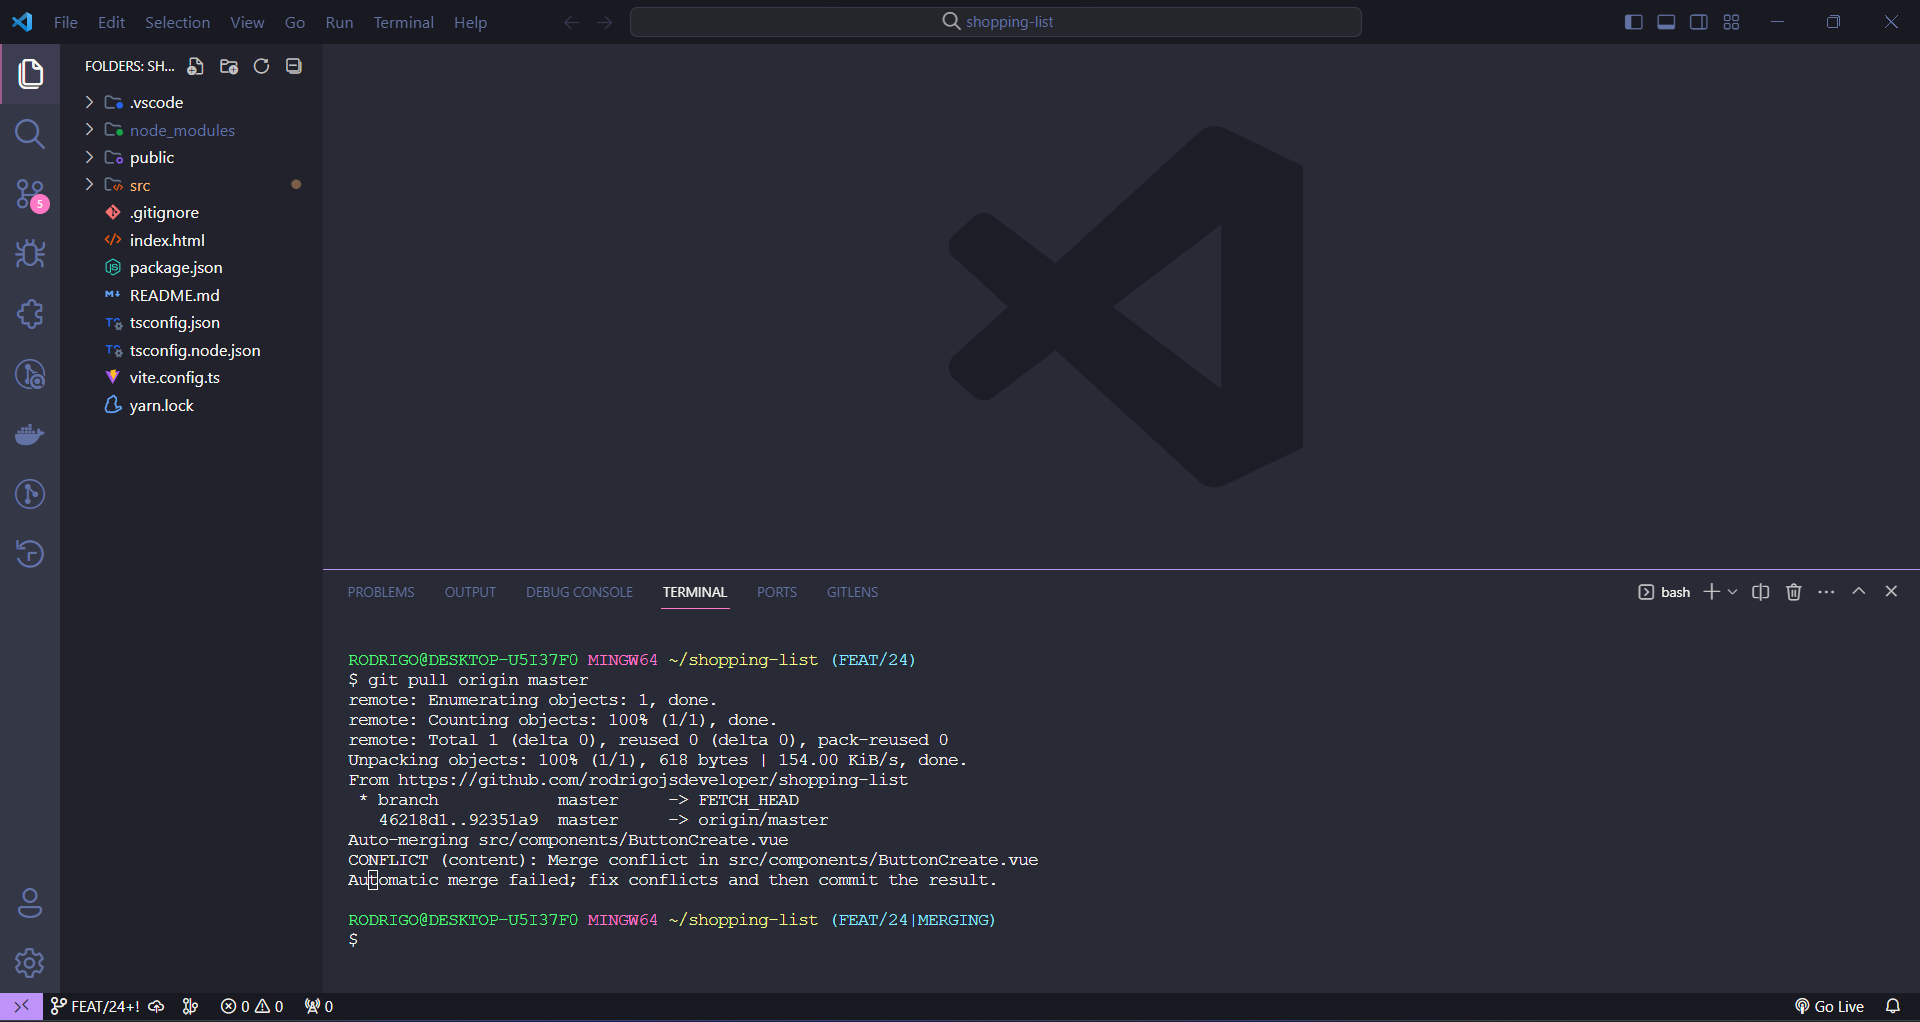
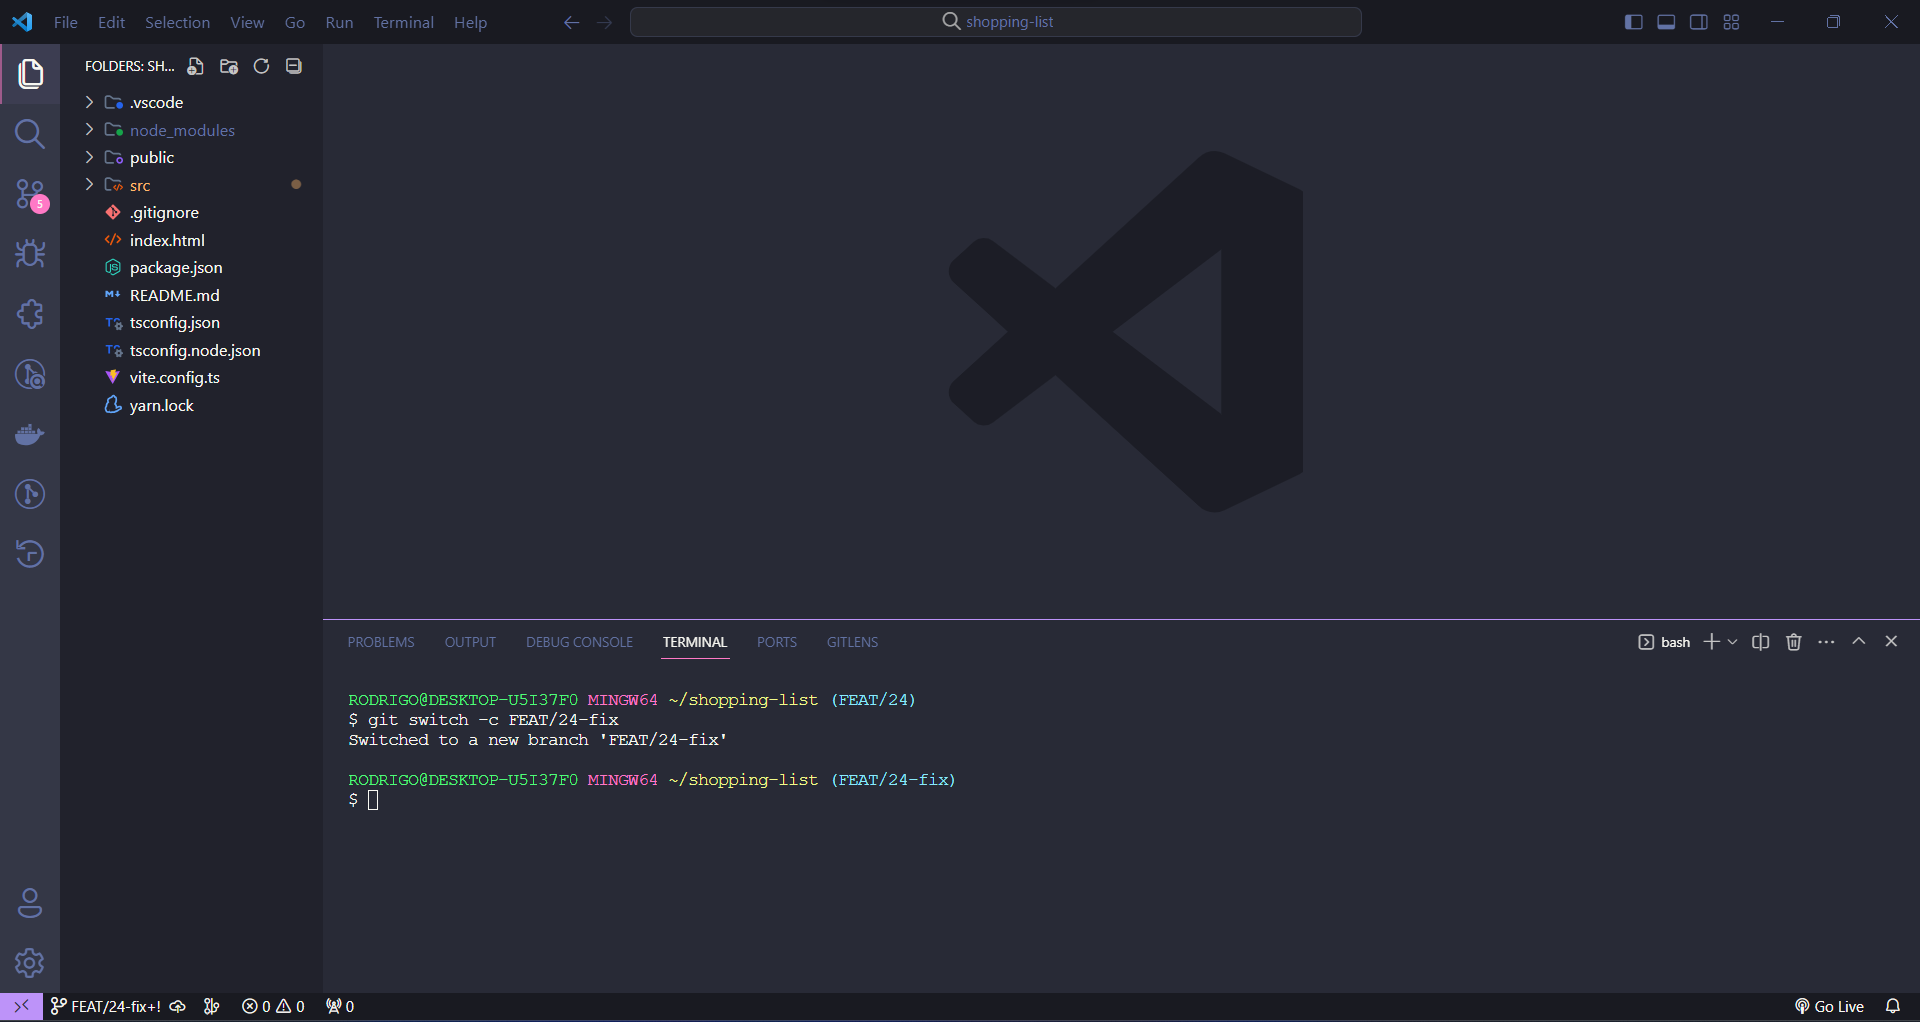
docs: update README.md

Changed region(s): [[0.1875, 0.5763, 0.5312, 0.91], [0.8438, 0.5763, 0.9375, 0.637], [0.0625, 0.9706, 0.1875, 1.0]]

diff --git a/README.md b/README.md
@@ -1,1 +1,71 @@
-# resolve-conflict
+<h1 align="center">Resolver conflito</h1>
+
+O primeiro passo consiste em identificar os arquivos que apresentam conflitos no Pull Request.
+
+<img src="./assets/resolve.png" alt="imagem de ilustração" />
+
+<br/>
+
+Abra o Visual Studio Code e certifique-se de estar na branch que está enfrentando conflitos (no meu caso, é a branch FEAT/24).
+
+<img src="./assets/resolve-1.png" alt="imagem de ilustração" />
+
+<br/>
+
+Crie uma nova branch que irá abordar a resolução desses conflitos.
+
+Certifique-se de nomear essa branch da mesma forma que a branch conflituosa, adicionando apenas "fix".
+
+Lembre-se sempre de criar a branch de resolução de conflitos com base na branch que está enfrentando conflitos.
+
+Por exemplo, se a branch conflituosa é 'FEAT/24', a nova branch seria 'FEAT/24-fix'.
+
+<img src="./assets/resolve-2.png" alt="imagem de ilustração" />
+
+<br/>
+
+Realize o pull da branch para a qual você está apontando na pull request para a sua própria branch.
+
+<img src="./assets/resolve-3.png" alt="imagem de ilustração" />
+
+<br/>
+
+Resolva os conflitos e, após concluir a resolução, faça o push para a sua branch.
+
+<img src="./assets/resolve-4.png" alt="imagem de ilustração" />
+
+<br/>
+
+Crie a Pull Request da branch que resolve o conflito (FEAT/24-fix), apontando para a branch que está enfrentando o conflito, no meu caso, 'FEAT/24'.
+
+### Pull Request
+
+FEAT/24 <- FEAT/24-fix
+
+<img src="./assets/resolve-5.png" alt="imagem de ilustração" />
+
+<br/>
+
+Antes de efetuar o merge, revise os arquivos para garantir que tudo está correto.
+
+Após essa verificação, proceda com o merge para a branch que está enfrentando conflitos.
+
+<img src="./assets/resolve-6.png" alt="imagem de ilustração" />
+<img src="./assets/resolve-7.png" alt="imagem de ilustração" />
+<img src="./assets/resolve-8.png" alt="imagem de ilustração" />
+
+<br/>
+
+Sua branch está livre de conflitos.
+
+<img src="./assets/resolve-9.png" alt="imagem de ilustração" />
+
+<br/>
+
+Para concluir, remova a branch criada para resolver o conflito.
+
+<img src="./assets/resolve-10.png" alt="imagem de ilustração" />
+
+<br/>
+<p align="center">Desenvolvido por <a href="https://www.linkedin.com/in/rodrigo-de-jesus-silva/">Rodrigo Silva</a>
+</p>
